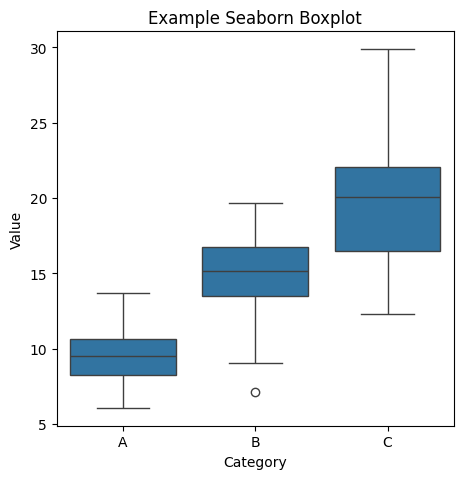
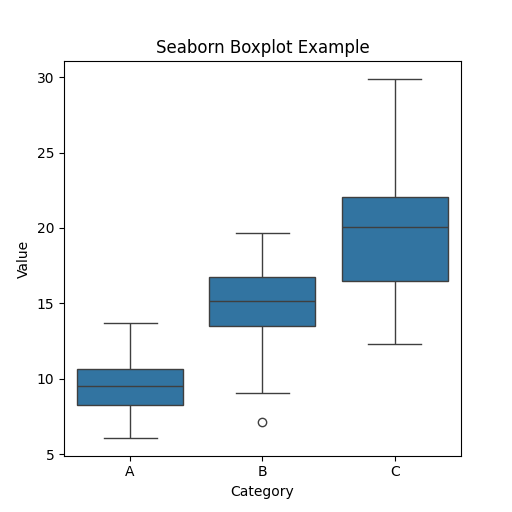
Fix chart to exactly 512x512

diff --git a/chart-task/chart.py b/chart-task/chart.py
@@ -3,33 +3,27 @@ import pandas as pd
 import seaborn as sns
 import matplotlib.pyplot as plt
 
-# Make the output reproducible
 np.random.seed(42)
 
-# Create some example data
 data = pd.DataFrame({
     "category": np.repeat(["A", "B", "C"], 50),
     "value": np.concatenate([
-        np.random.normal(loc=10, scale=2, size=50),
-        np.random.normal(loc=15, scale=3, size=50),
-        np.random.normal(loc=20, scale=4, size=50),
+        np.random.normal(10, 2, 50),
+        np.random.normal(15, 3, 50),
+        np.random.normal(20, 4, 50),
     ])
 })
 
-# Create a figure that will be exactly 512x512 pixels
-# size (inches) * dpi = pixels
-# 5.12 inches * 100 dpi = 512 pixels
-fig, ax = plt.subplots(figsize=(5.12, 5.12), dpi=100)
+# 512px x 512px exactly
+fig = plt.figure(figsize=(5.12, 5.12), dpi=100)
+ax = plt.gca()
 
-# Create a Seaborn boxplot
 sns.boxplot(data=data, x="category", y="value", ax=ax)
 
-ax.set_title("Example Seaborn Boxplot")
+ax.set_title("Seaborn Boxplot Example")
 ax.set_xlabel("Category")
 ax.set_ylabel("Value")
 
-# Save the chart as exactly 512x512 PNG in the same folder
-fig.savefig("chart.png", dpi=100, bbox_inches="tight")
-
-plt.close(fig)
-
+# DO NOT use bbox_inches or tight_layout (they change size)
+plt.savefig("chart.png", dpi=100)
+plt.close()
